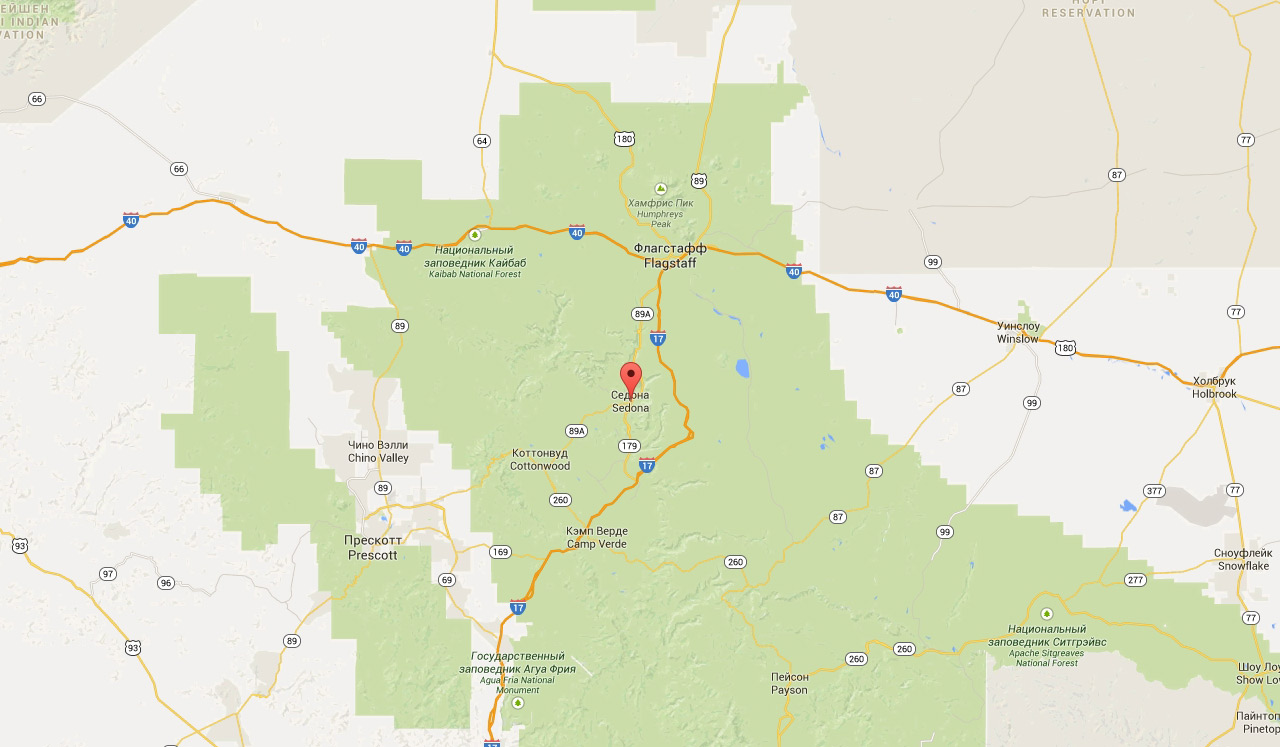
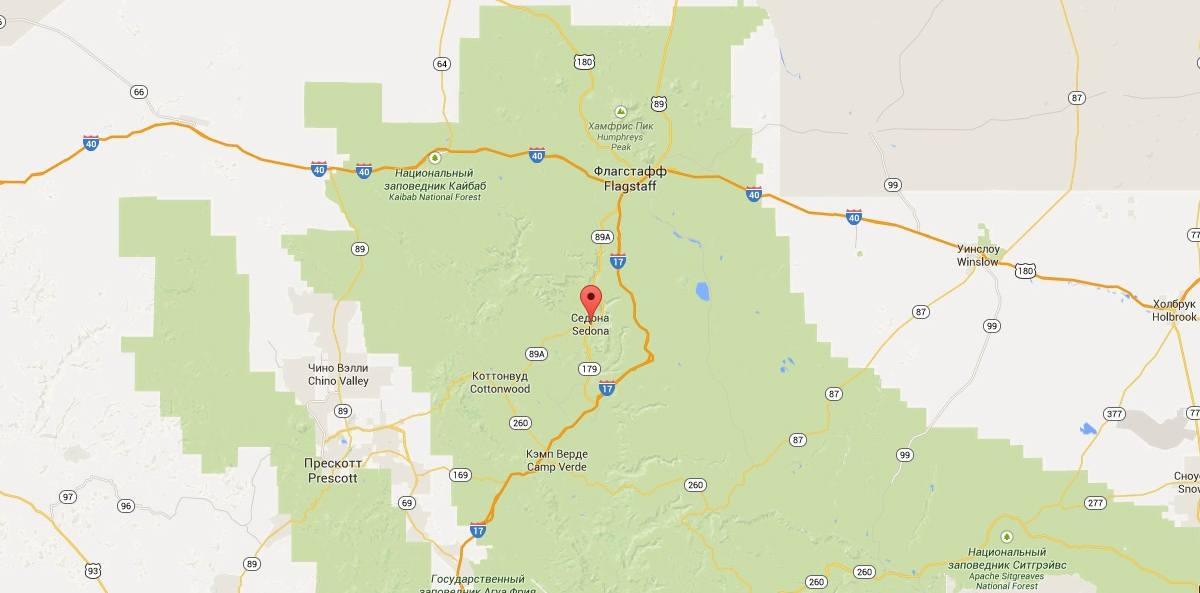
снова на проверку

diff --git a/css/style.css b/css/style.css
@@ -423,6 +423,14 @@ a {
   align-items: center;
 }
 
+.site-navigation li:nth-child(){
+  margin-left: 20px;
+}
+
+.insert{
+  margin-left: 115px;
+}
+
 .container{
   width: 1200px;
   margin: 0 auto;
@@ -436,7 +444,7 @@ a {
   width:37px;
   height: 70px;
   left: 50%;
-  margin-left: -68px;
+  margin-left: -71px;
 }
 
 .features-note{
@@ -616,21 +624,10 @@ margin: 0;
   margin-top: 30px;
 }
 
-.feature-icon-list-feature-item-souvenirs h3{
-  margin-left: 23px;
-}
 
-.feature-icon-list-feature-item-house img{
-  margin-left: 15px;
-}
-
-.feature-icon-list-feature-item-house h3{
-  margin-bottom: 24px;
-}
-
-.feature-icon-list-feature-item-house{
-  margin-top: 2px;
-  margin-left: 5px;
+.feature-icon-list-feature-item-food{
+  margin-left: 128px;
+  margin-right: 122px;
 }
 
 .feature-icon{
@@ -644,8 +641,9 @@ margin: 0;
   /*margin: 0;*/
 }
 
-
-
+.feature-icon-list-feature-item-house img{
+  margin-left: 15px;
+}
 
 .feature-list{
   display: flex;
@@ -692,26 +690,39 @@ margin: 0;
   min-height: 16px;
 }
 
+.footer-wrapper{
+  padding: 0 auto;
+  position: absolute;
+  width: 1200px;
+  min-height: 123px;
+  background-color: rgba(255, 255, 255, 0.9);
+}
+
+ .inner-page.footer-wrapper{
+  position: static;
+  width: 1200px;
+  min-height: 123px;
+  background-color: rgba(255, 255, 255, 0.9);
+}
+
 .main-footer{
   display: flex;
   flex-direction: row;
-  width: 996px;
-  min-height: 121px;
-  /*margin-left: 134px;*/
-  /*margin: 0;*/
-  margin-left: 133px;
+  width: 967px;
+  min-height: 48px;
   justify-content: space-between;
   align-items: center;
+  margin-left: 133px;
+  margin-top: 20px;
+  /*background-color: rgba(255, 255, 255, 0.9);*/
+  position: absolute;
 }
-
-
 
 .footer-social{
   width: 150px;
   min-height: 48px;
-  /*margin-left: 228px;*/
-
-}
+  margin-left: 23px;
+  }
 
 .interest-button{
   display: flex;
@@ -742,6 +753,7 @@ margin: 0;
 
 .price-controls {
   position: relative;
+  width: 319px;
   height: 36px;
   margin-bottom: 20px;
   font-size: 0;
@@ -817,7 +829,9 @@ margin: 0;
 .btn-transparent {
   display: block;
   margin: 0 auto;
+  margin-left: 89px;
   padding: 6px 35px;
+  width: 138px;
   font-size: 14px;
   line-height: 20px;
   color: #ffffff;
@@ -851,14 +865,14 @@ margin: 0;
 
 .filter-type{
   text-align: left;
-  margin-right: 102px;
+  margin-right: 118px;
   margin-left: 73px;
-  margin-top: 32px;
+  margin-top: 27px;
 }
 
 .filter-type-accommodation{
-  margin-right: 347px;
-  margin-top: 32px;
+  margin-right: 280px;
+  margin-top: 27px;
 }
 
 .filter-type ul{
@@ -883,7 +897,8 @@ margin: 0;
   width: 330px;
   margin: 50px auto; /* для демо */
   margin: 0;
-  margin-top: 32px;
+  margin-top: 27px;
+  margin-left: 45px;
   color: #ffffff;
   text-transform: uppercase;
 }
@@ -900,9 +915,12 @@ margin: 0;
   justify-content: flex-start;
   align-items: center;
   width: 1200px;
-  min-height: 87px;
-  border-bottom: 2px solid #f6f6f6;
+  min-height: 85px;
   margin-left: 73px;
+}
+
+.main-sorting-container{
+  border-bottom: 2px solid #f6f6f6;
 }
 
 .main-sorting-list h4{
@@ -926,7 +944,7 @@ margin: 0;
   display: flex;
   align-content:center;
   width: 1200px;
-  min-height: 152px;
+  min-height: 149px;
   border-bottom: 2px solid #f6f6f6;
 }
 
@@ -934,14 +952,14 @@ margin: 0;
   width: 135px;
   min-height: 90px;
   padding-left: 72px;
-  padding-top: 31px;
+  padding-top: 30px;
 }
 
 .hotel-type{
   min-width: 110px;
   margin: 0;
   padding-top: 8px;
-  padding-bottom: 14px;
+  padding-bottom: 18px;
   /*padding-bottom: 10px;*/
 }
 
@@ -993,8 +1011,8 @@ margin: 0;
 .chisel-rating{
   /*display: flex;
   flex-direction: column;*/
-  margin-left: 524px;
-  margin-top: 32px;
+  margin-left: 520px;
+  margin-top: 30px;
 }
 
 .rating{
@@ -1004,7 +1022,7 @@ margin: 0;
   width: 112px;
   height: 28px;
   margin-bottom: 0;
-  margin-top:30px;
+  margin-top: 43px;
 }
 
 /*decor*/
@@ -1047,6 +1065,8 @@ input[type="radio"].visually-hidden {
   padding-left: 55px;
   padding-top: 56px;
   background-color:#ffffff;
+  -webkit-box-shadow: 0 7px 15px 0 rgba(0, 1, 1, 0.15);
+   box-shadow: 0 7px 15px 0 rgba(0, 1, 1, 0.15);
 }
 
 .modal-search-arrival{
@@ -1157,10 +1177,6 @@ input[type="radio"].visually-hidden {
   padding: 0;
 }
 
-.footer-social{
-  margin-left: 22px;
-}
-
 .social-button{
   display: flex;
   align-items: center;
@@ -1186,7 +1202,7 @@ input[type="radio"].visually-hidden {
   display: flex;
   /*flex-direction: row;*/
   align-items: center;
-  margin-right: 28px;
+  /*margin-right: 28px;*/
   /*margin: 0 auto;*/
 }
 
@@ -1330,3 +1346,11 @@ input[type="radio"].visually-hidden {
   margin: 0;
   margin-left: 6px;
   }
+
+.shadow{
+  -webkit-box-shadow: 0 5px 15px 0 rgba(0, 0, 0, .2);
+          box-shadow: 0 5px 15px 0 rgba(0, 0, 0, .2);
+  width: 1200px;
+  position: absolute;
+  left: calc(50% - 600px);
+}

diff --git a/catalog.html b/catalog.html
@@ -7,21 +7,23 @@
   <link href="css/style.css" rel="stylesheet">
   <link href="https://fonts.googleapis.com/css?family=PT+Sans:400,700&amp;subset=cyrillic" rel="stylesheet">
 </head>
-<body>
-  <header class="main-header">
-    <div class="container">
-      <nav class="main-navigation">
-        <a class="main-navigation-logo" href="index.html"><img src="img/logo.png" alt="Логотип City of Sedona"></a>
-        <ul class="site-navigation">
-          <li><a href="info.html">Информация</a></li>
-          <li><a href="photo.html">Фото и видео</a></li>
-          <li></li>
-          <li><a href="map.html">Карта штата</a></li>
-          <li><a href="hotel.html">Гостиницы</a></li>
-        </ul>
+<body class="inner-page">
+  <div class="shadow">
+    <section class="shadow">
+      <header class="main-header">
+        <div class="container">
+          <nav class="main-navigation">
+            <a class="main-navigation-logo" href="index.html"><img src="img/logo.png" alt="Логотип City of Sedona"></a>
+            <ul class="site-navigation">
+              <li><a href="info.html">Информация</a></li>
+              <li><a href="photo.html">Фото и видео</a></li>
+              <li class="insert"></li>
+              <li><a href="map.html">Карта штата</a></li>
+              <li><a href="catalog.html">Гостиницы</a></li>
+            </ul>
       </nav>
-    </div>
-  </header>
+        </div>
+      </header>
 
   <main class="container">
     <section class="filters">
@@ -94,6 +96,7 @@
     </section>
 
     <section class="main-sorting">
+    <div class="main-sorting-container">
       <div class="main-sorting-list">
         <h2>Найдено: 3</h2>
         <h4>Сортировка:</h4>
@@ -105,6 +108,7 @@
         <div class="switch"><a href="#"><svg xmlns="http://www.w3.org/2000/svg" width="11" height="10" viewBox="0 0 11 10"><path fill="#231F20" d="M5.5 0L0 10h11z"/></svg>
         </a><a href="#"><svg xmlns="http://www.w3.org/2000/svg" width="11" height="10" viewBox="0 0 11 10"><path fill="#231F20" d="M5.5 10L0 0h11"/></svg></a></div>
       </div>
+    </div>
       <div class="main-sorting-hotels">
         <div class="main-sorting-hotels-img">
           <img src="img/foto4.jpg" width="133" height="87" alt="amara resort spa"></div>
@@ -161,6 +165,7 @@
                     </main>
 
                     <footer class="container">
+                      <section class="footer-wrapper">
                       <div class="main-footer">
                         <a class="visit" href="#">#visitsedona</a>
                         <div class="footer-social">
@@ -182,6 +187,8 @@
                           </svg></a>
                         </p>
                       </div>
+                      </section>
                     </footer>
+                  </div>
                   </body>
                   </html>

diff --git a/index.html b/index.html
@@ -8,7 +8,7 @@
   <link href="https://fonts.googleapis.com/css?family=PT+Sans:400,700&amp;subset=cyrillic" rel="stylesheet">
 </head>
 <body>
-  <section class="shadow">
+  <div class="shadow">
   <header class="main-header">
     <div class="container">
       <nav class="main-navigation">
@@ -16,7 +16,7 @@
         <ul class="site-navigation">
           <li><a href="info.html">Информация</a></li>
           <li><a href="photo.html">Фото и видео</a></li>
-          <li></li>
+          <li class="insert"></li>
           <li><a href="map.html">Карта штата</a></li>
           <li><a href="catalog.html">Гостиницы</a></li>
         </ul>
@@ -104,7 +104,7 @@
       </section>
       <section class="modal-search">
         <div class="map">
-          <img src="img/map.jpg" width="1200" height="470" alt="map">
+          <img src="img/map.jpg" width="1200" height="593" alt="map">
         </div>
         <form class="modal-search-form" action="#" method="post">
           <!-- <div class="form filling"> -->
@@ -134,7 +134,8 @@
     </section>
   </main>
   <footer class="container">
-    <div class="main-footer">
+    <section class="footer-wrapper">
+  <div class="main-footer">
       <a class="visit" href="#">#visitsedona</a>
       <div class="footer-social">
         <ul>
@@ -155,7 +156,8 @@
         </svg></a>
       </p>
     </div>
+  </section>
   </footer>
-</section>
+</div>
 </body>
 </html>
